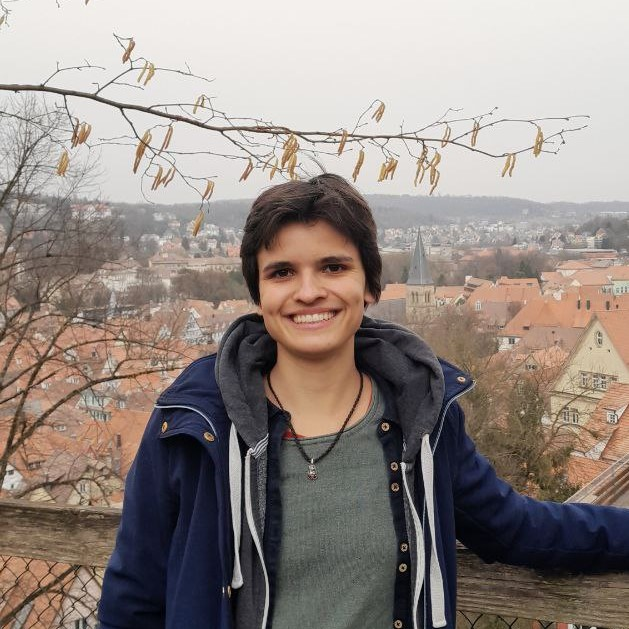
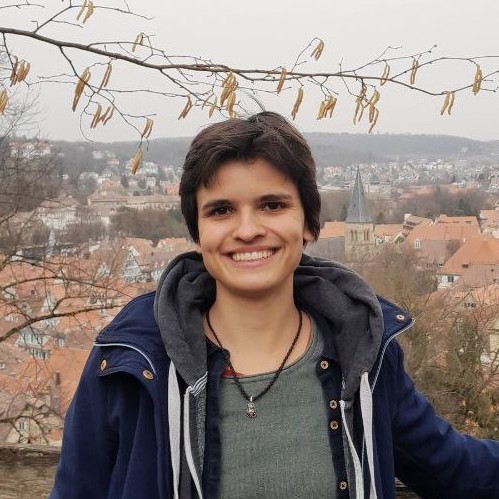
layout fix

diff --git a/404.html b/404.html
@@ -3,7 +3,5 @@ layout: page
 permalink: /404.html
 title: "Page not found"
 description: "Looks like there has been a mistake. Nothing exists here."
-redirect: true
+redirect: false
 ---
-
-<p>You will be redirected to the main page within 3 seconds. If not redirected, please click <a href="{{ site.baseurl }}/">here</a>.</p>

diff --git a/_sass/_base.scss b/_sass/_base.scss
@@ -665,3 +665,11 @@ html.transition *:after {
     }
   }
 }
+
+
+.grid { 
+  display: grid;
+  grid-template-columns: repeat(auto-fill, minmax(150px, 1fr));
+  grid-gap: 10px;
+  align-items: stretch;
+  }

diff --git a/_sass/_layout.scss b/_sass/_layout.scss
@@ -40,6 +40,9 @@ body.sticky-bottom-footer {
 .avatar {
   border-radius: 50%;
   margin-bottom: -10px;
+  object-fit: cover;
+  width: 150px;
+  height: 150px;
 }
 
 .card {

diff --git a/_pages/about.md b/_pages/about.md
@@ -77,7 +77,6 @@ In broad terms, our aim is to make NLP models more robust, so that they can deal
   <h2 class="category">{{page.[group].title}}</h2>
     <div class="grid">
       {%- for person in page.[group].people -%}
-        <div class="container">
           <article class="grid-item card">
             {% if person.picture -%}
               <img class="avatar" src="/assets/img/{{person.picture}}" alt="Portrait ({{person.name}})" width="auto" height="auto">
@@ -94,9 +93,9 @@ In broad terms, our aim is to make NLP models more robust, so that they can deal
               {%- endif -%}
             </h2>
             <div class="card-text">
-              <!-- <p style="margin-bottom: 0rem;">{{person.description}}</p> -->
               {{person.description}}
-            <!-- <ul class="network-icon" aria-hidden="true">
+              <!-- <p style="margin-bottom: 0rem;">{{person.description}}</p> 
+              <ul class="network-icon" aria-hidden="true">
               {% if person.website -%}
                 <li><a href="{{person.website}}"><i class="fas fa-globe"></i></a></li>
               {%- endif -%}
@@ -121,7 +120,6 @@ In broad terms, our aim is to make NLP models more robust, so that they can deal
               </div>
             </div>
           </article>
-        </div>
       {%- endfor -%}
     </div>
   {%- endfor -%}
